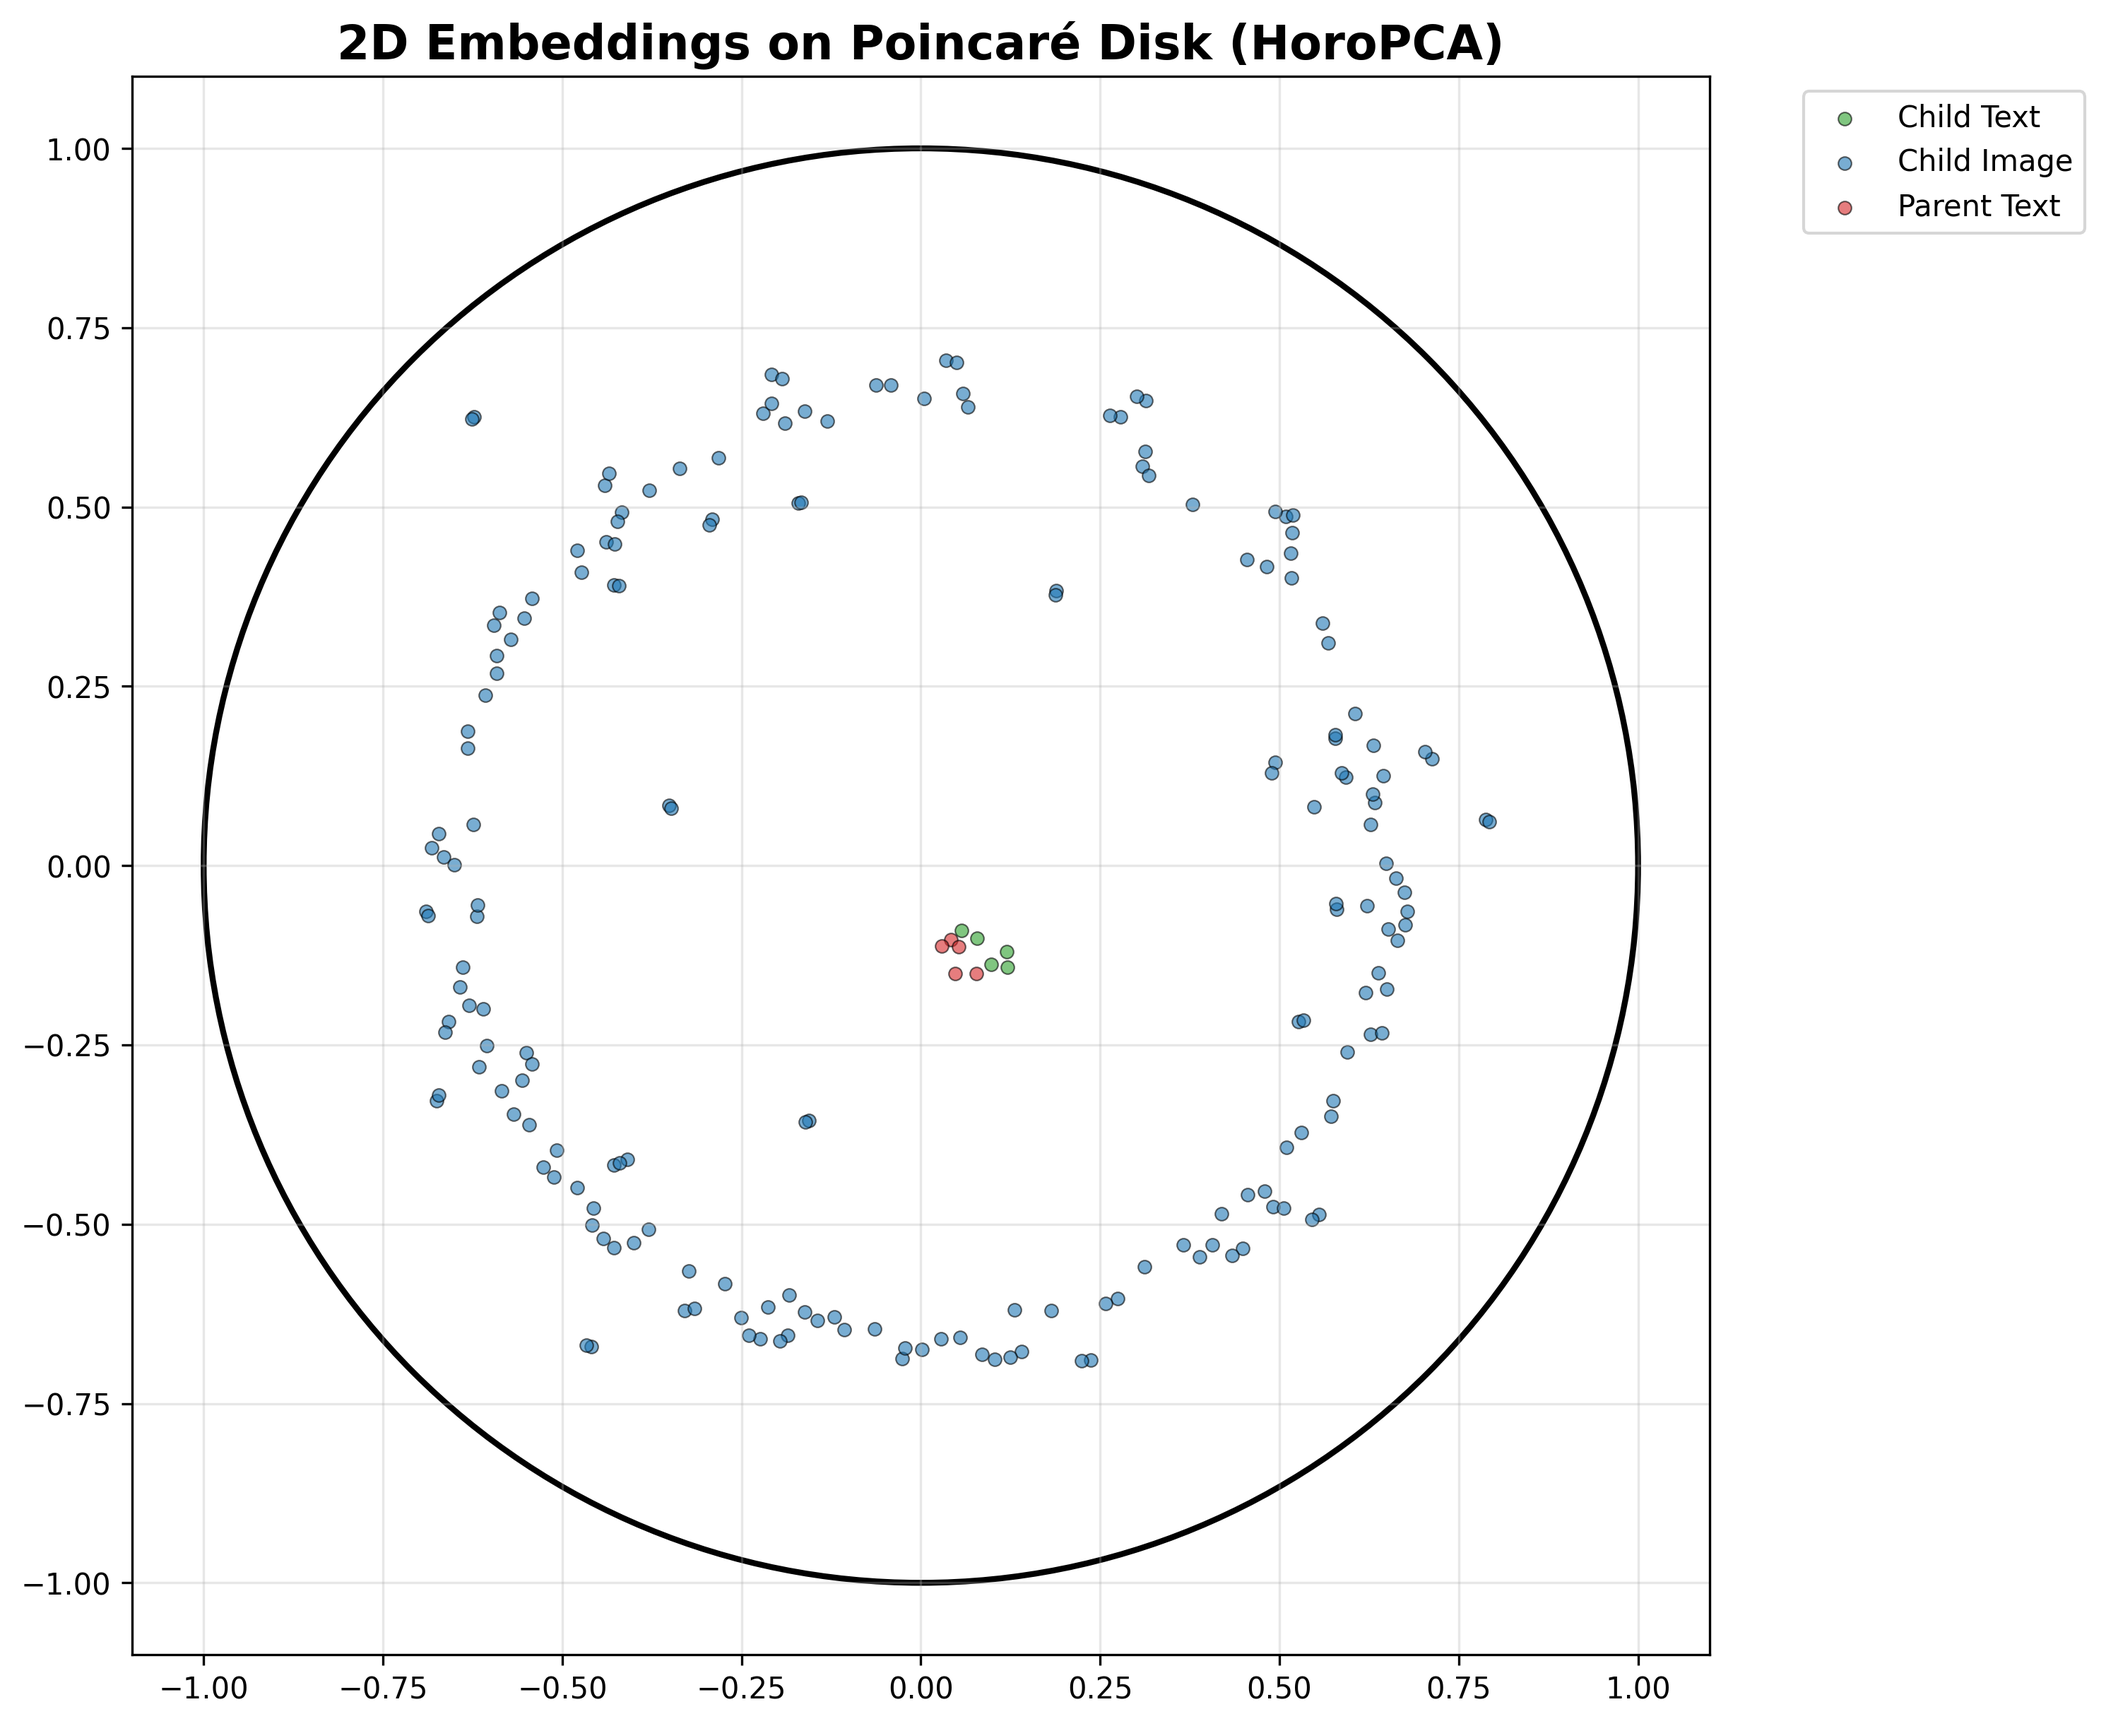
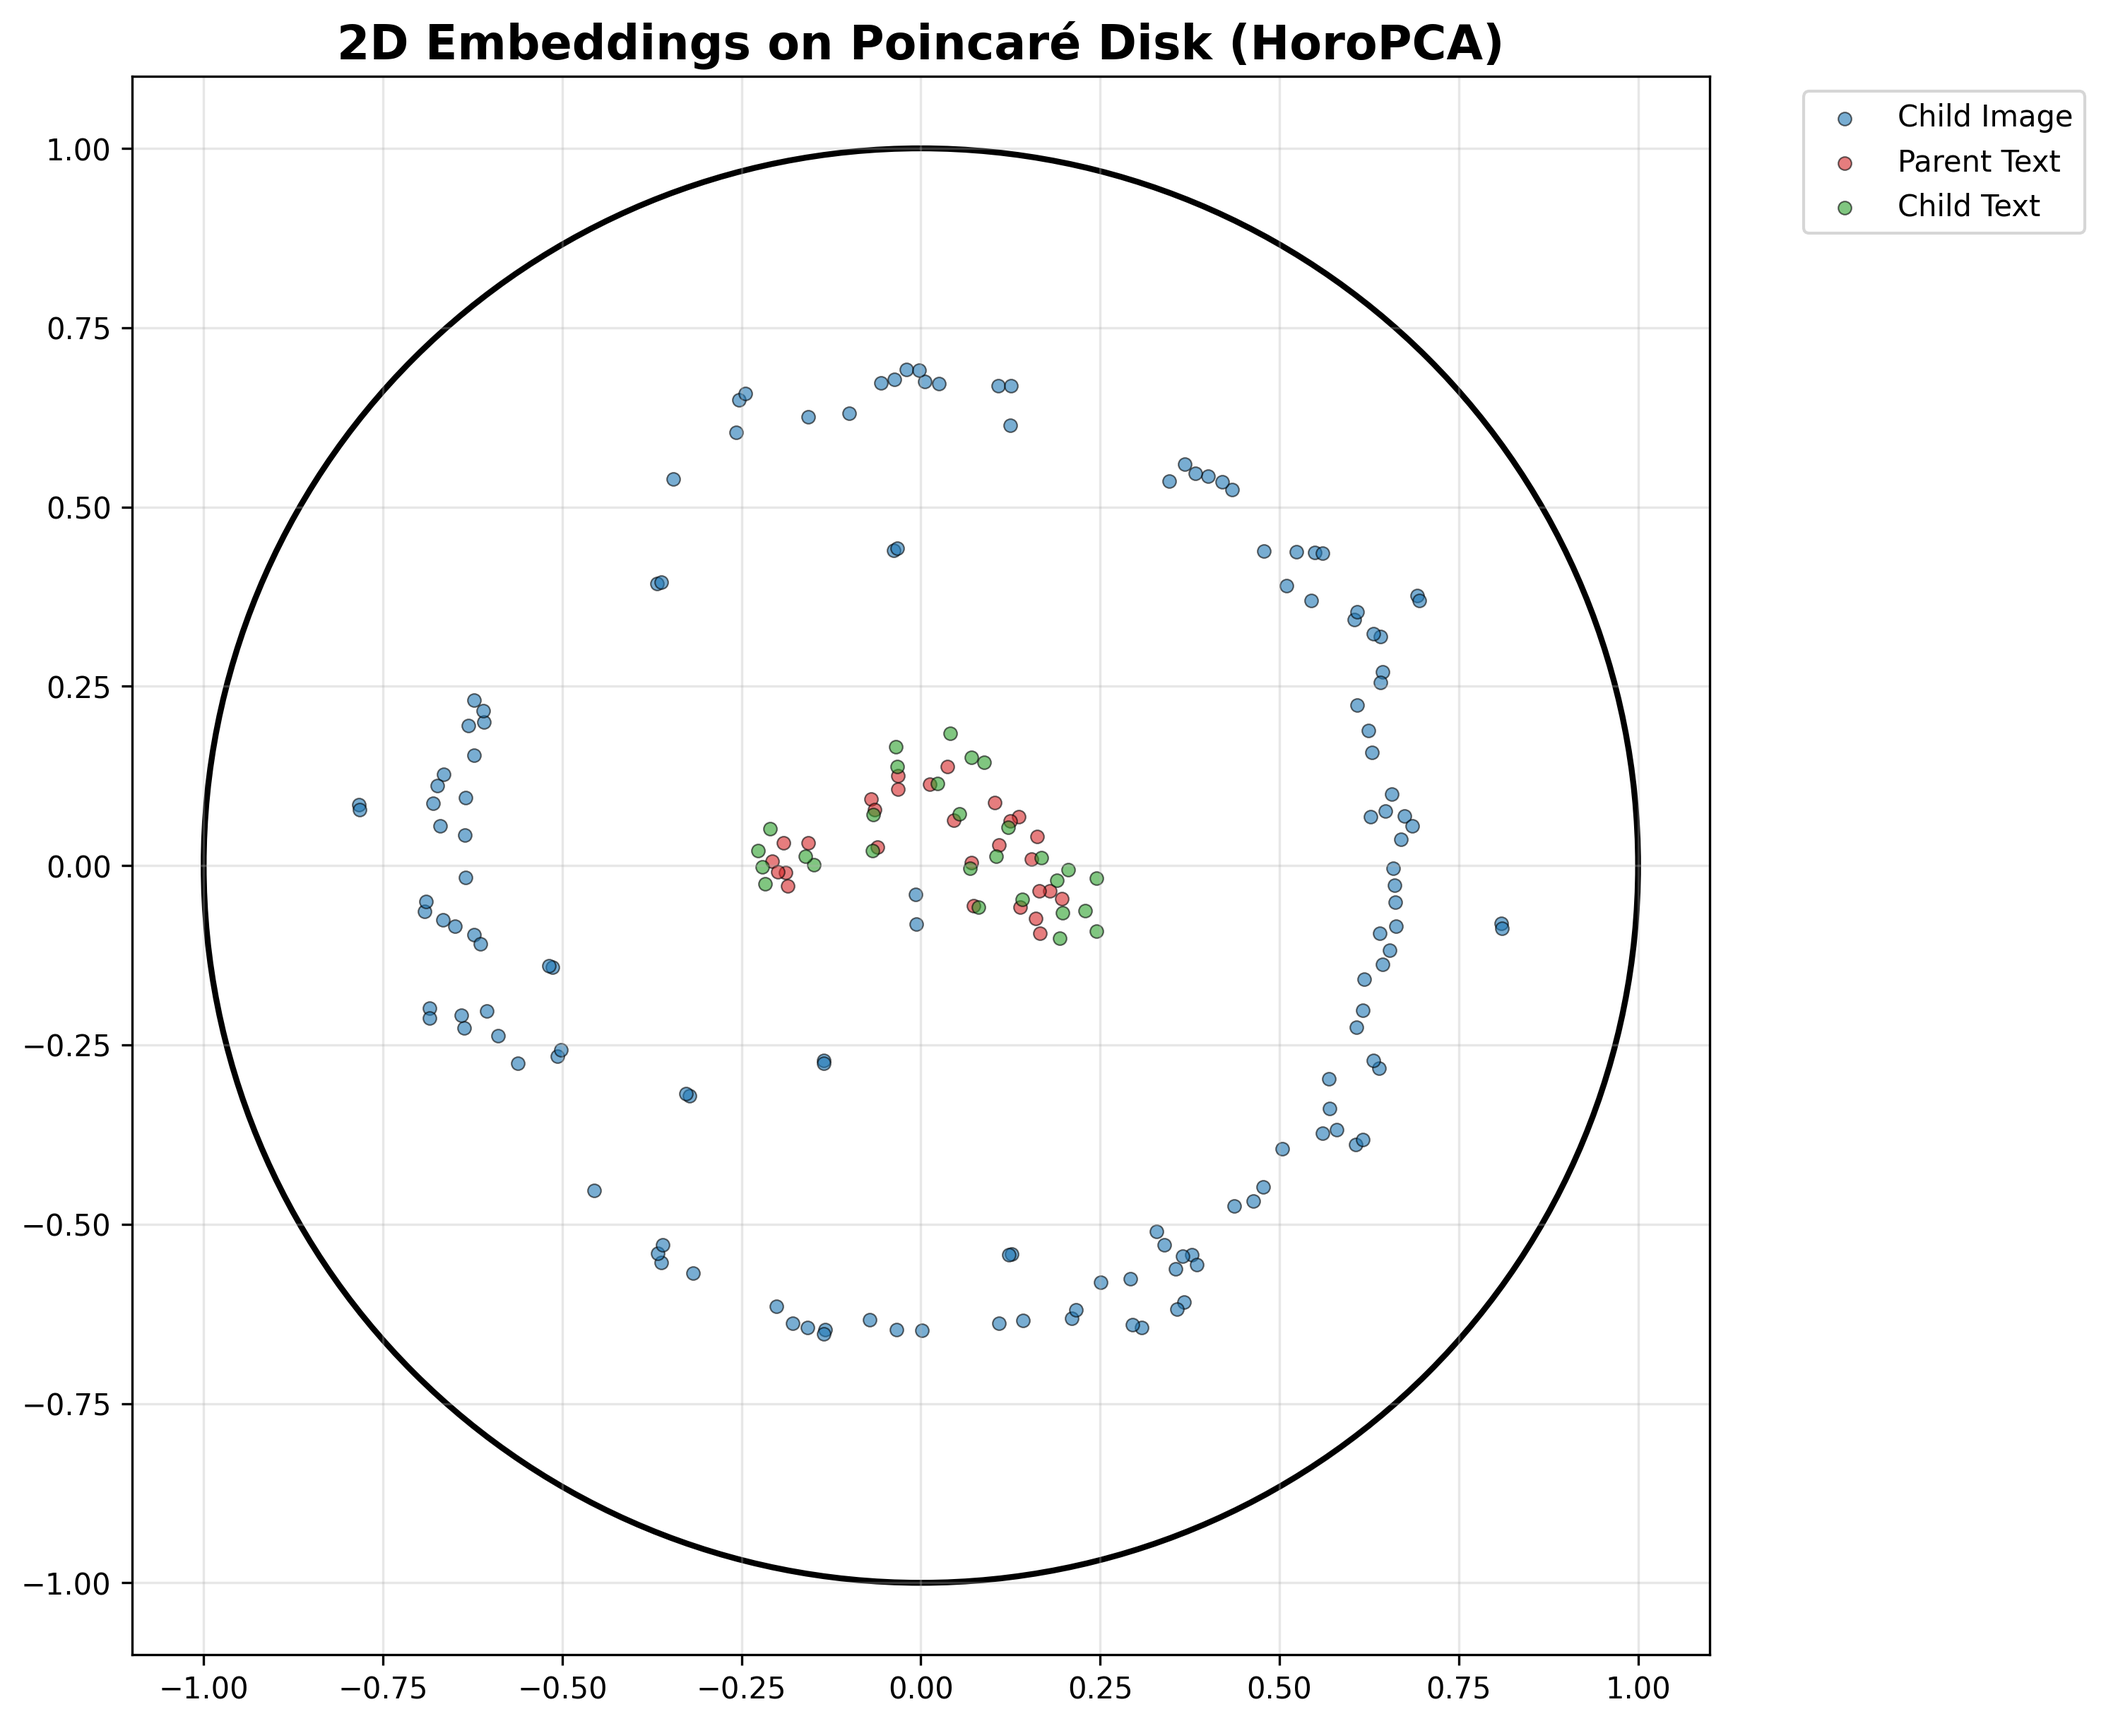
make generation of trees imagenet so it has only 5 child images

diff --git a/projection_methods/create_projections.py b/projection_methods/create_projections.py
@@ -79,7 +79,8 @@ def parse_arguments():
     
     # Data args
     parser.add_argument("--dataset-path", required=True, help="Path to dataset folder (e.g., hierchical_datasets/ImageNet)")
-    parser.add_argument("--n-project", type=int, default=0, help="Number of samples to project (0 = all)")
+    parser.add_argument("--n-project", type=int, default=0, help="Number of samples to project (0 = all, >0 = balanced tree sampling)")
+    parser.add_argument("--children-per-tree", type=int, default=5, help="Number of child images to sample per tree when using balanced sampling")
     
     # Plotting args
     parser.add_argument("--plot", action="store_true", help="Generate and save plots")
@@ -117,7 +118,7 @@ class EmbeddingLoader:
     def __init__(self, dataset_path):
         self.dataset_path = Path(dataset_path)
         
-    def load_embeddings(self):
+    def load_embeddings(self, n_project=0, children_per_tree=5):
         """Load embeddings from embeddings.pkl file."""
         embeddings_path = self.dataset_path / "embeddings.pkl"
         
@@ -131,6 +132,14 @@ class EmbeddingLoader:
         
         # Extract embeddings and create labels
         embeddings_dict = embed_data['embeddings']
+        
+        if n_project > 0:
+            return self._load_balanced_trees(embeddings_dict, n_project, children_per_tree)
+        else:
+            return self._load_all_embeddings(embeddings_dict)
+    
+    def _load_all_embeddings(self, embeddings_dict):
+        """Load all embeddings (original behavior)."""
         embeddings = []
         labels = []
         
@@ -153,6 +162,95 @@ class EmbeddingLoader:
         
         print(f"✓ Loaded {len(embeddings)} embeddings of dimension {embeddings.shape[1]}")
         print(f"  Label distribution: {dict(zip(*np.unique(labels, return_counts=True)))}")
+        
+        return {'embeddings': embeddings, 'labels': labels}
+    
+    def _load_balanced_trees(self, embeddings_dict, n_project, children_per_tree):
+        """Load balanced trees to reach approximately n_project embeddings."""
+        import random
+        
+        # Calculate how many trees we need to reach n_project embeddings
+        # Each tree contributes: 1 parent_text + 1 child_text + children_per_tree child_images
+        embeddings_per_tree = 2 + children_per_tree  # parent_text + child_text + child_images
+        balanced_trees = max(1, n_project // embeddings_per_tree)
+        
+        print(f"Using balanced tree sampling: {balanced_trees} trees with {children_per_tree} child images each")
+        print(f"Target: ~{n_project} embeddings, Expected: ~{balanced_trees * embeddings_per_tree} embeddings")
+        
+        # Group embeddings by tree
+        trees = {}
+        for embed_id, embedding in embeddings_dict.items():
+            # Extract tree number from embed_id (e.g., 'pt_tree1' -> 'tree1')
+            if '_tree' in embed_id:
+                tree_part = embed_id.split('_tree')[1]
+                if '_' in tree_part:
+                    tree_id = tree_part.split('_')[0]  # Handle 'ci_tree1_001' -> '1'
+                else:
+                    tree_id = tree_part  # Handle 'pt_tree1' -> '1'
+                
+                tree_key = f"tree{tree_id}"
+                
+                if tree_key not in trees:
+                    trees[tree_key] = {'parent_text': [], 'child_text': [], 'child_image': [], 'parent_image': []}
+                
+                # Categorize embedding
+                if embed_id.startswith('pt_'):
+                    trees[tree_key]['parent_text'].append((embed_id, embedding))
+                elif embed_id.startswith('ct_'):
+                    trees[tree_key]['child_text'].append((embed_id, embedding))
+                elif embed_id.startswith('pi_'):
+                    trees[tree_key]['parent_image'].append((embed_id, embedding))
+                elif embed_id.startswith('ci_'):
+                    trees[tree_key]['child_image'].append((embed_id, embedding))
+        
+        print(f"Found {len(trees)} trees in dataset")
+        
+        # Select random trees
+        available_trees = list(trees.keys())
+        if len(available_trees) < balanced_trees:
+            print(f"Warning: Only {len(available_trees)} trees available, using all")
+            selected_trees = available_trees
+        else:
+            selected_trees = random.sample(available_trees, balanced_trees)
+        
+        print(f"Selected trees: {selected_trees[:10]}{'...' if len(selected_trees) > 10 else ''}")
+        
+        # Collect embeddings from selected trees
+        embeddings = []
+        labels = []
+        
+        for tree_key in selected_trees:
+            tree_data = trees[tree_key]
+            
+            # Add parent_text (should be 1 per tree)
+            for embed_id, embedding in tree_data['parent_text']:
+                embeddings.append(embedding)
+                labels.append('parent_text')
+            
+            # Add child_text (should be 1 per tree)
+            for embed_id, embedding in tree_data['child_text']:
+                embeddings.append(embedding)
+                labels.append('child_text')
+            
+            # Add parent_image (if any)
+            for embed_id, embedding in tree_data['parent_image']:
+                embeddings.append(embedding)
+                labels.append('parent_image')
+            
+            # Sample limited child_images
+            child_images = tree_data['child_image']
+            if len(child_images) > children_per_tree:
+                child_images = random.sample(child_images, children_per_tree)
+            
+            for embed_id, embedding in child_images:
+                embeddings.append(embedding)
+                labels.append('child_image')
+        
+        embeddings = torch.tensor(np.array(embeddings), dtype=torch.float32)
+        
+        print(f"✓ Loaded {len(embeddings)} embeddings from {len(selected_trees)} trees")
+        print(f"  Label distribution: {dict(zip(*np.unique(labels, return_counts=True)))}")
+        print(f"  Expected: {len(selected_trees)} parent_text, {len(selected_trees)} child_text, ~{len(selected_trees) * children_per_tree} child_image")
         
         return {'embeddings': embeddings, 'labels': labels}
 
@@ -253,17 +351,16 @@ def main():
     # Load embeddings
     print("\n📁 Loading embeddings...")
     loader = EmbeddingLoader(args.dataset_path)
-    embed_data = loader.load_embeddings()
+    embed_data = loader.load_embeddings(args.n_project, args.children_per_tree)
     
-    # Sample subset for projection if specified
+    # Embeddings are already sampled by the loader if n_project > 0
     embeddings = embed_data['embeddings']
     labels = embed_data['labels']
     
-    if args.n_project > 0 and len(embeddings) > args.n_project:
-        indices = torch.randperm(len(embeddings))[:args.n_project]
-        embeddings = embeddings[indices]
-        labels = [labels[i] for i in indices]
-        print(f"\n🎯 Using {args.n_project:,} samples for projection")
+    if args.n_project > 0:
+        print(f"\n🎯 Using balanced tree sampling: {len(embeddings):,} embeddings with {args.children_per_tree} children per tree")
+    else:
+        print(f"\n🎯 Using all {len(embeddings):,} embeddings")
     
 
     
